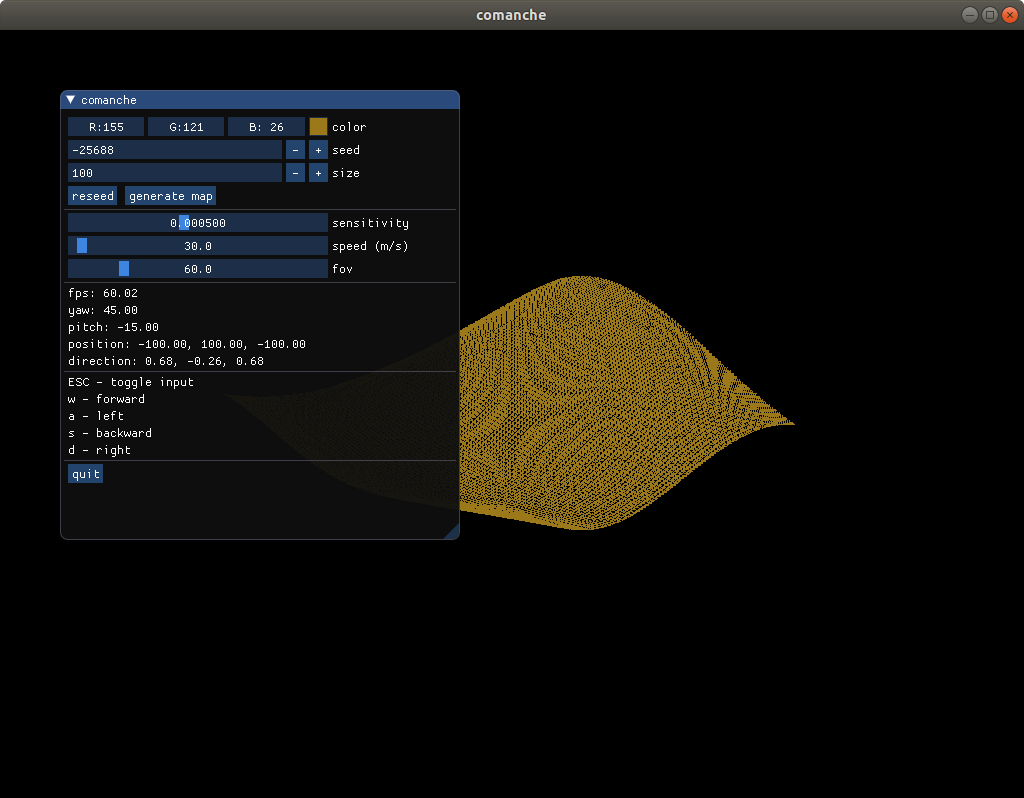
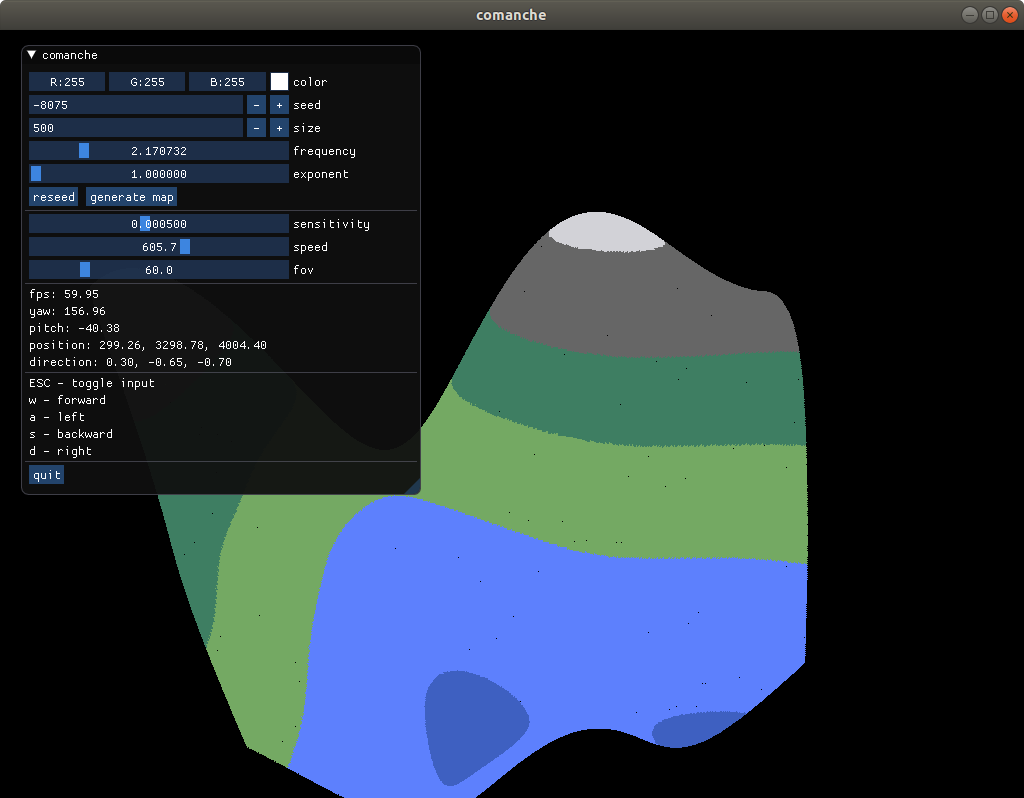
0.2 - better procedural generation

diff --git a/main.cpp b/main.cpp
@@ -12,28 +12,55 @@
 #include <imgui.h>
 #include <imgui_impl_glfw.h>
 #include <imgui_impl_opengl3.h>
+#include <lodepng.h>
 #include <OpenSimplex/OpenSimplex.h>
 
 using namespace std;
 using namespace glm;
 
+class Block {
+public:
+    enum Type {WaterDeep=1, WaterShallow, Grass, Forest, Stone, Snow};
+    static constexpr const char* VERTEX_SHADER = R"(
+        #version 330 core
+        uniform mat4 mvp;
+        layout(location = 0) in vec3 xyz;
+        layout(location = 1) in vec2 uv_in;
+        out vec2 uv;
+        void main() {	
+            gl_Position = mvp*vec4(xyz, 1);
+            uv = uv_in;
+        })";
+    static constexpr const char* FRAGMENT_SHADER = R"(
+        #version 330 core
+        uniform sampler2D texture;
+        in vec2 uv;
+        out vec4 color;
+        void main() {
+            color = texture2D(texture, uv);
+        })";
+};
+
 GLFWwindow* win;
 int width, height;
 
-GLuint vbo, ibo, block_gl;
-GLint color_u, mvp_u;
+GLuint vbo, ibo, block_obj, block_gl;
+GLint mvp_u, texture_u;
 
 vector<float> heightmap, vertices;
 vector<int> indices;
+vector<vec2> uvs;
 
 auto color = ImVec4(1, 1, 1, 1);
 auto seed = 0,
      size = 100;
+auto frequency = 1.f,
+     exponent = 1.f;
 
 auto cursor = true;
 
 auto sensitivity = 0.0005f,
-     speed = 30.f,
+     speed = 100.f,
      fov = 60.f;
 auto yaw = radians(45.0), 
      pitch = radians(-15.0);
@@ -83,6 +110,17 @@ int glfw_init() {
     }
 }
 
+void load_texture(const char* filename) {
+    vector<unsigned char> data;
+    unsigned int w, h;
+    auto err = lodepng::decode(data, w, h, filename);
+    if (err) {
+        fprintf(stderr, "load_texture %s failed, error %u: %s\n", filename, err, lodepng_error_text(err));
+        exit(1);
+    }
+    glTexImage2D(GL_TEXTURE_2D, 0, GL_RGBA, w, h, 0, GL_RGBA, GL_UNSIGNED_BYTE, &data[0]);
+}
+
 void check_status(GLuint id, GLenum status) {
     auto get_iv = glGetShaderiv;
     auto get_log = glGetShaderInfoLog;
@@ -125,12 +163,13 @@ GLuint load_glsl(const char* vertex_src, const char* fragment_src) {
 }
 
 void add_face(initializer_list<int> face, bool cond) {
-    if (cond)
-        for (int i : face) indices.push_back(i+(vertices.size()-36)/3);
+    if (cond) 
+        for (int i : face)
+            indices.push_back(i+(vertices.size()-36)/3);
 }
 
 void add_block(int x, int z) {
-    const auto a = 0.4f;
+    const auto a = 0.5f;
     auto y = heightmap[x*size+z],
          y0 = z == size-1 ? -1 : a-y+heightmap[x*size+z+1],
          y1 = z == 0 ? -1 : a-y+heightmap[x*size+z-1],
@@ -150,8 +189,18 @@ void add_block(int x, int z) {
         -a, y3, -a,
          a, y2, -a
     };
-    for (int i = 0; i < verts.size();)
+    for (int i = 0; i < verts.size();) {
         vertices.insert(vertices.end(), {verts[i++]+x, verts[i++]+y, verts[i++]+z});
+
+        auto y0 = y/size;
+        auto type = y0 < -0.5 ? Block::WaterDeep :
+            y0 < 0.0 ? Block::WaterShallow :
+            y0 < 0.3 ? Block::Grass :
+            y0 < 0.5 ? Block::Forest :
+            y0 < 0.7 ? Block::Stone :
+            Block::Snow;
+        uvs.push_back(vec2(type/6.f-0.1, 0));
+    }
 
     add_face({0,  1, 2, 2,  3, 0}, y0 > a && z < size-1); // +z
     add_face({4,  5, 6, 6,  7, 4}, y1 > a && z > 0); // -z
@@ -166,12 +215,18 @@ void gen_map() {
 
     heightmap.clear();
     heightmap.resize(size*size);
-    for (int x = 0; x < size; x++)
-        for (int z = 0; z < size; z++)
-            heightmap[x*size+z] = size*(OpenSimplex::Noise::noise2(ctx, (double)x/size-0.5, (double)z/size-0.5)/2+0.5);
+    for (int x = 0; x < size; x++) {
+        auto nx = frequency*(float(x)/size);
+        for (int z = 0; z < size; z++) {
+            auto nz = frequency*(float(z)/size),
+                 n = OpenSimplex::Noise::noise2(ctx, nx, nz);
+            heightmap[x*size+z] = size*pow(n, n < 0 ? floor(exponent) : exponent);
+        }
+    }
 
     vertices.clear();
     indices.clear();
+    uvs.clear();
     for (int x = 0; x < size; x++)
         for (int z = 0; z < size; z++)
             add_block(x, z);
@@ -180,6 +235,8 @@ void gen_map() {
     glBufferData(GL_ARRAY_BUFFER, vertices.size()*sizeof(float), &vertices[0], GL_STATIC_DRAW);
     glBindBuffer(GL_ELEMENT_ARRAY_BUFFER, ibo);
     glBufferData(GL_ELEMENT_ARRAY_BUFFER, indices.size()*sizeof(int), &indices[0], GL_STATIC_DRAW);
+    glBindBuffer(GL_ARRAY_BUFFER, block_obj);
+    glBufferData(GL_ARRAY_BUFFER, uvs.size()*sizeof(vec2), &uvs[0], GL_STATIC_DRAW);
 }
 
 mat4 get_matrix() {
@@ -222,22 +279,26 @@ mat4 get_matrix() {
     }
 
     last_time = now;
-    return perspective(radians(fov), float(width/height), 0.01f, 1000.f) *
+    return perspective(radians(fov), float(width/height), 0.01f, 10000.f) *
         lookAt(position, position+direction, up) *
-        mat4(1);
+        scale(mat4(1), vec3(5));
 }
 
 void render() {
     glUseProgram(block_gl);
-    glUniform4f(color_u, color.x, color.y, color.z, color.w);
     glUniformMatrix4fv(mvp_u, 1, false, &get_matrix()[0][0]);
+    glUniform1i(texture_u, 0);
 
     glEnableVertexAttribArray(0);
     glBindBuffer(GL_ARRAY_BUFFER, vbo);
-    glVertexAttribPointer(0, 3, GL_FLOAT, false, 0, 0);
+    glVertexAttribPointer(0, 3, GL_FLOAT, false, 0, nullptr);
     glBindBuffer(GL_ELEMENT_ARRAY_BUFFER, ibo);
+    glEnableVertexAttribArray(1);
+    glBindBuffer(GL_ARRAY_BUFFER, block_obj);
+    glVertexAttribPointer(1, 2, GL_FLOAT, false, 0, nullptr);
     glDrawElements(GL_TRIANGLES, indices.size(), GL_UNSIGNED_INT, nullptr);
     glDisableVertexAttribArray(0);
+    glDisableVertexAttribArray(1);
 }
 
 void render_ui() {
@@ -250,13 +311,15 @@ void render_ui() {
     ImGui::ColorEdit3("color", (float*)&color);
     ImGui::InputInt("seed", &seed);
     ImGui::InputInt("size", &size);
+    ImGui::SliderFloat("frequency", &frequency, 1, 7, nullptr);
+    ImGui::SliderFloat("exponent", &exponent, 1, 7, nullptr);
     if (ImGui::Button("reseed")) reseed();
     ImGui::SameLine(); 
     if (ImGui::Button("generate map")) gen_map();
     ImGui::Separator();
 
     ImGui::SliderFloat("sensitivity", &sensitivity, 0.0001, 0.001, nullptr);
-    ImGui::SliderFloat("speed (m/s)", &speed, 0.1, 1000, "%.1f");
+    ImGui::SliderFloat("speed", &speed, 0.1, 1000, "%.1f");
     ImGui::SliderFloat("fov", &fov, 45, 120, "%.1f");
     ImGui::Separator();
 
@@ -301,31 +364,25 @@ int main() {
     glEnable(GL_DEPTH_TEST);
     glDepthFunc(GL_LESS);
 
+    GLuint texture;
+    glGenTextures(1, &texture);
+    glActiveTexture(GL_TEXTURE0);
+    glBindTexture(GL_TEXTURE_2D, texture);
+    glTexParameteri(GL_TEXTURE_2D, GL_TEXTURE_MIN_FILTER, GL_NEAREST);
+    glTexParameteri(GL_TEXTURE_2D, GL_TEXTURE_MAG_FILTER, GL_NEAREST);
+    load_texture("textures.png");
+
     GLuint vao;
     glGenVertexArrays(1, &vao);
     glBindVertexArray(vao);
 
     glGenBuffers(1, &vbo);
     glGenBuffers(1, &ibo);
+    glGenBuffers(1, &block_obj);
 
-    block_gl = load_glsl(
-        R"(
-        #version 330 core
-        layout(location = 0) in vec3 xyz;
-        uniform mat4 mvp;
-        void main() {	
-            gl_Position = mvp * vec4(xyz, 1);
-        })",
-        R"(
-        #version 330 core
-        uniform vec4 color;
-        out vec4 frag_color;
-        void main() {
-            frag_color = color;
-        })"
-    );
-    color_u = glGetUniformLocation(block_gl, "color");
+    block_gl = load_glsl(Block::VERTEX_SHADER, Block::FRAGMENT_SHADER);
     mvp_u = glGetUniformLocation(block_gl, "mvp");
+    texture_u = glGetUniformLocation(block_gl, "texture");
 
     gen_map();
     while (!glfwWindowShouldClose(win)) {
@@ -348,6 +405,7 @@ int main() {
     glDeleteVertexArrays(1, &vao);
     glDeleteBuffers(1, &vbo);
     glDeleteBuffers(1, &ibo);
+    glDeleteBuffers(1, &block_obj);
     glDeleteProgram(block_gl);
 
     ImGui_ImplOpenGL3_Shutdown();
